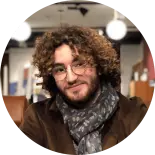
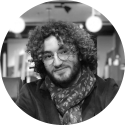
refactor: Improve performance

diff --git a/_includes/header.html b/_includes/header.html
@@ -1,9 +1,9 @@
 <header class="lazy" data-bg="img/header.jpg">
   <div class="header-content">
     <div class="header-content-inner">
-      <img src="img/logo.svg" alt="Logo Maison Mère" width="150" height="150" />
+      <img class="lazy" src="img/logo.svg" alt="Logo Maison Mère" width="150" height="150" />
       <p></p>
-      <img src="img/youcode.svg" alt="Logo YouCode" />
+      <img class="lazy" src="img/youcode.svg" alt="Logo YouCode" />
       <hr />
       <h1 class="glitch" data-text="On crée votre site web">On crée votre site web</h1>
       <a href="#about" class="btn btn-primary btn-xl">En savoir plus</a>

diff --git a/_sass/components/_intro.scss b/_sass/components/_intro.scss
@@ -4,9 +4,6 @@
 	.btn {
 		background-color: #72aabb;
 	}
-	img {
-		filter: grayscale(1);
-	}
 }
 
 .founder {
